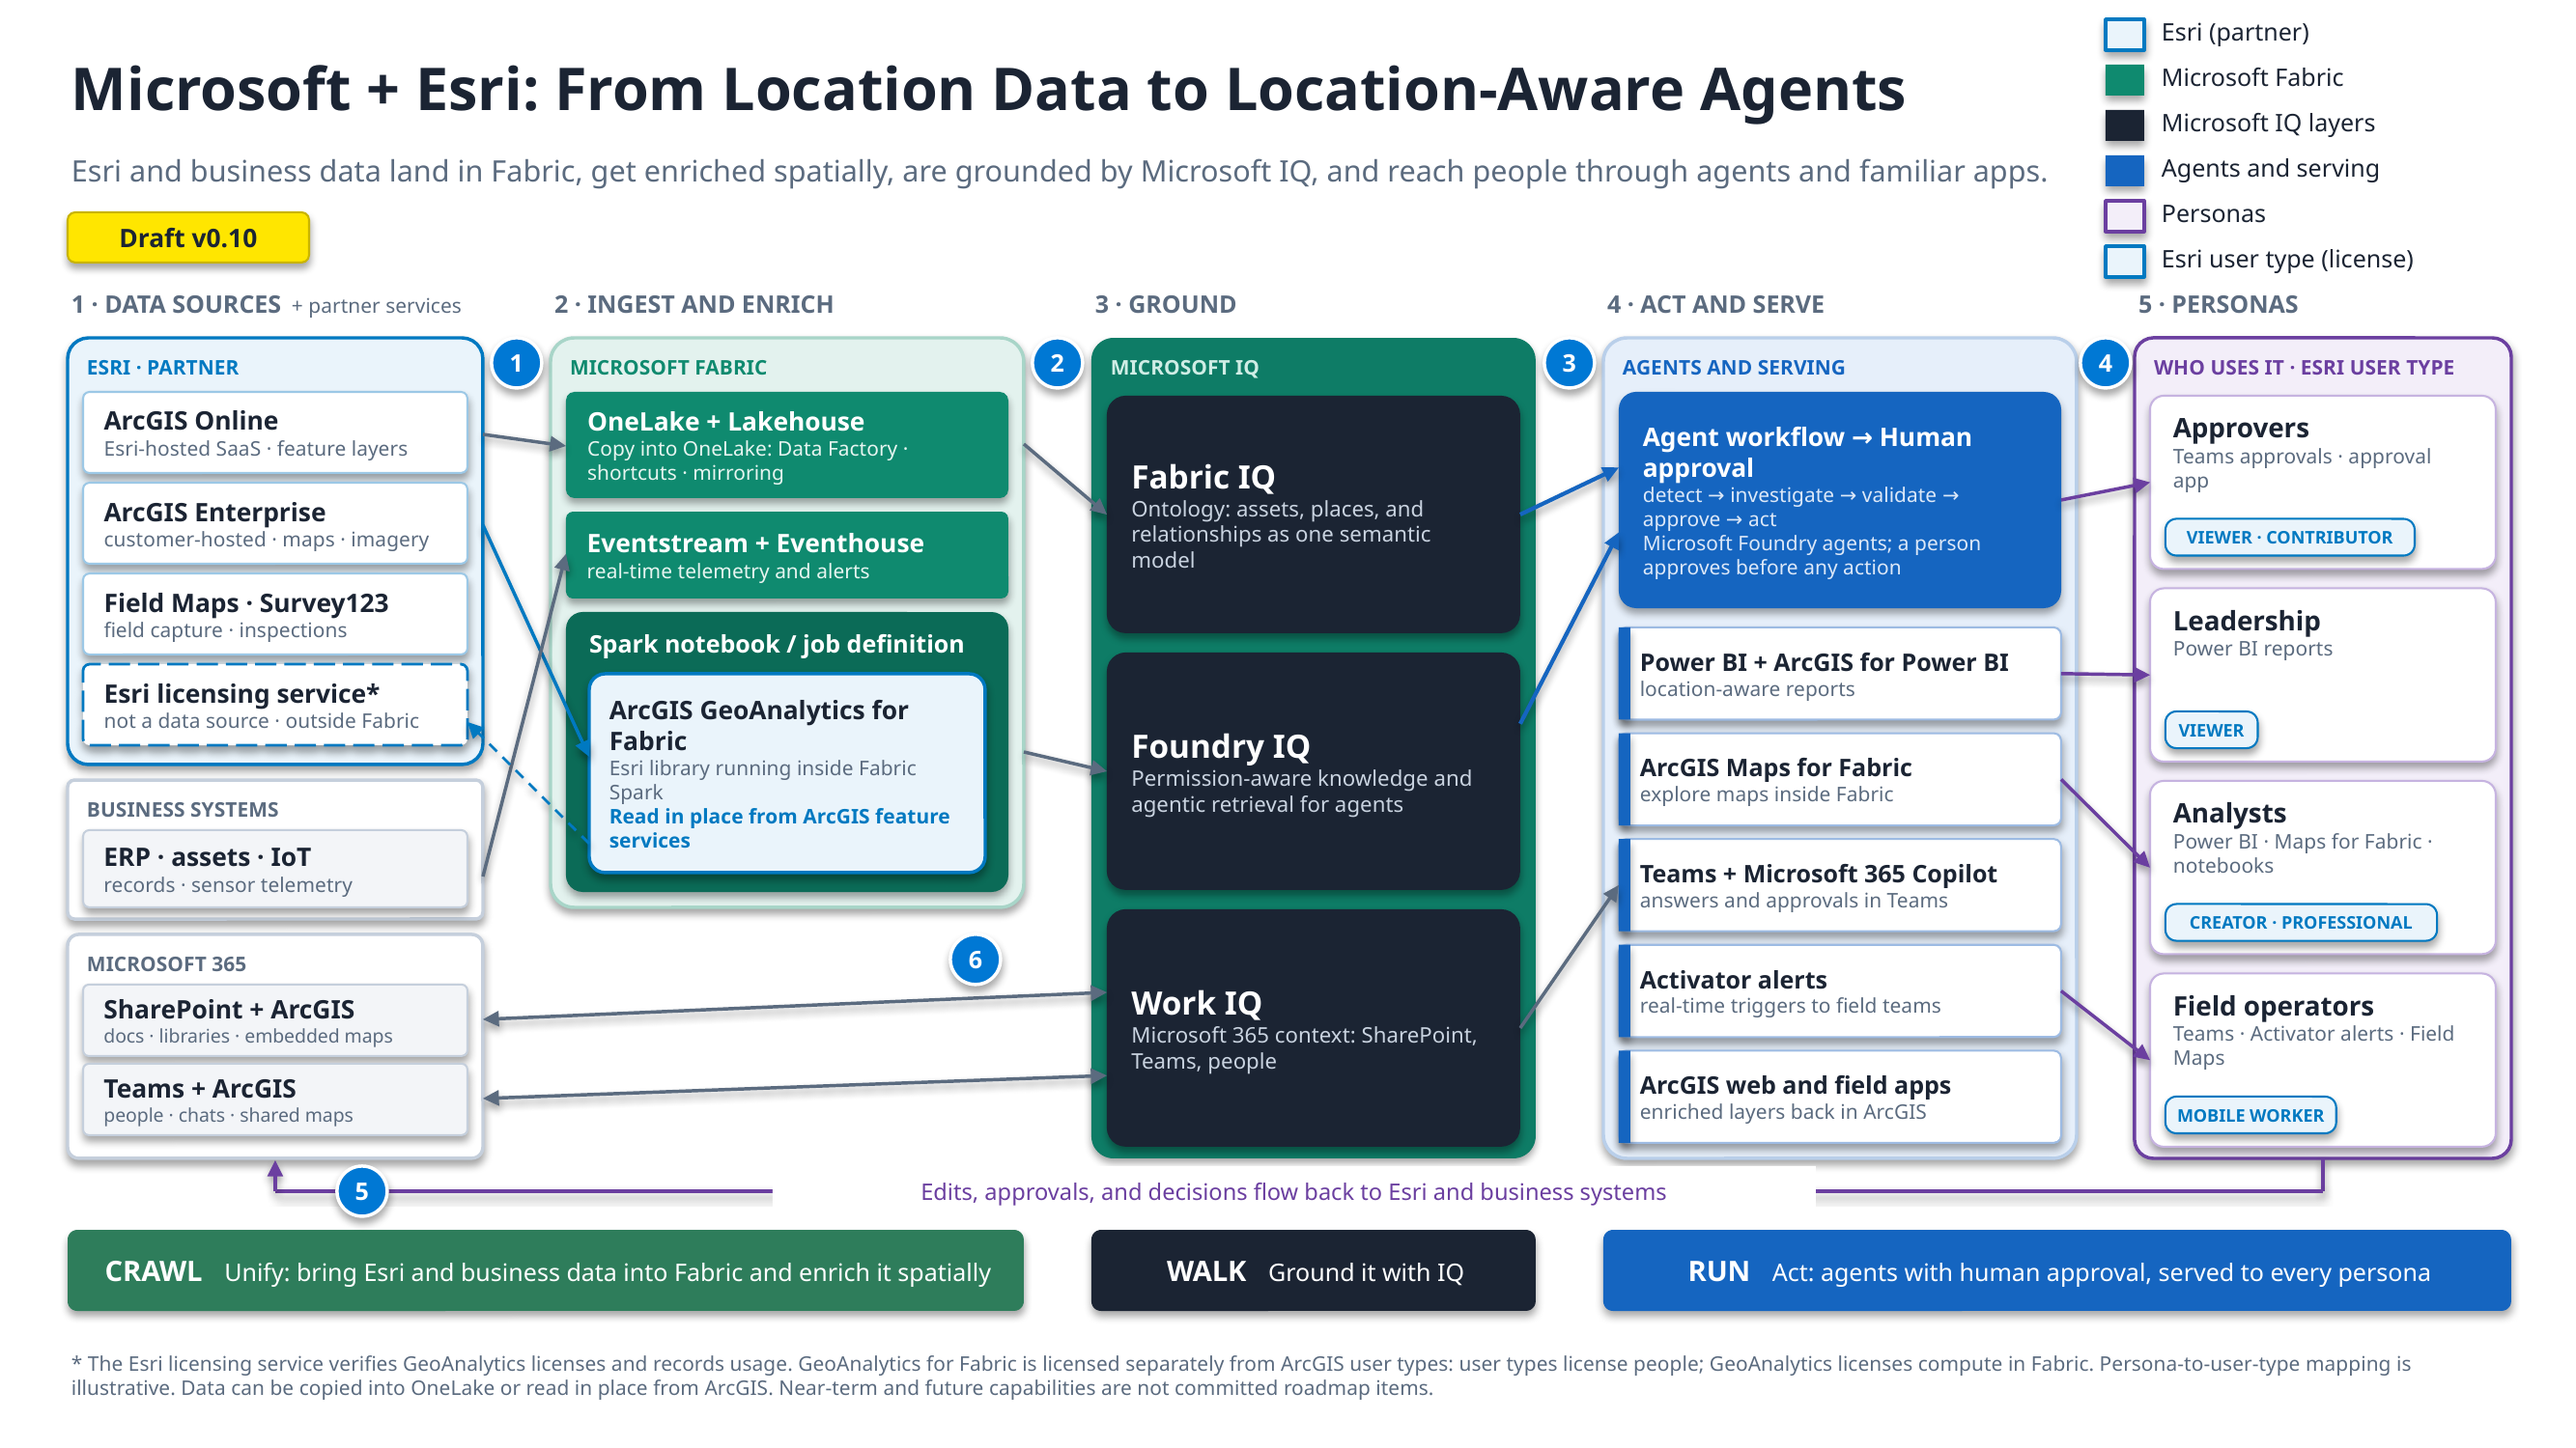
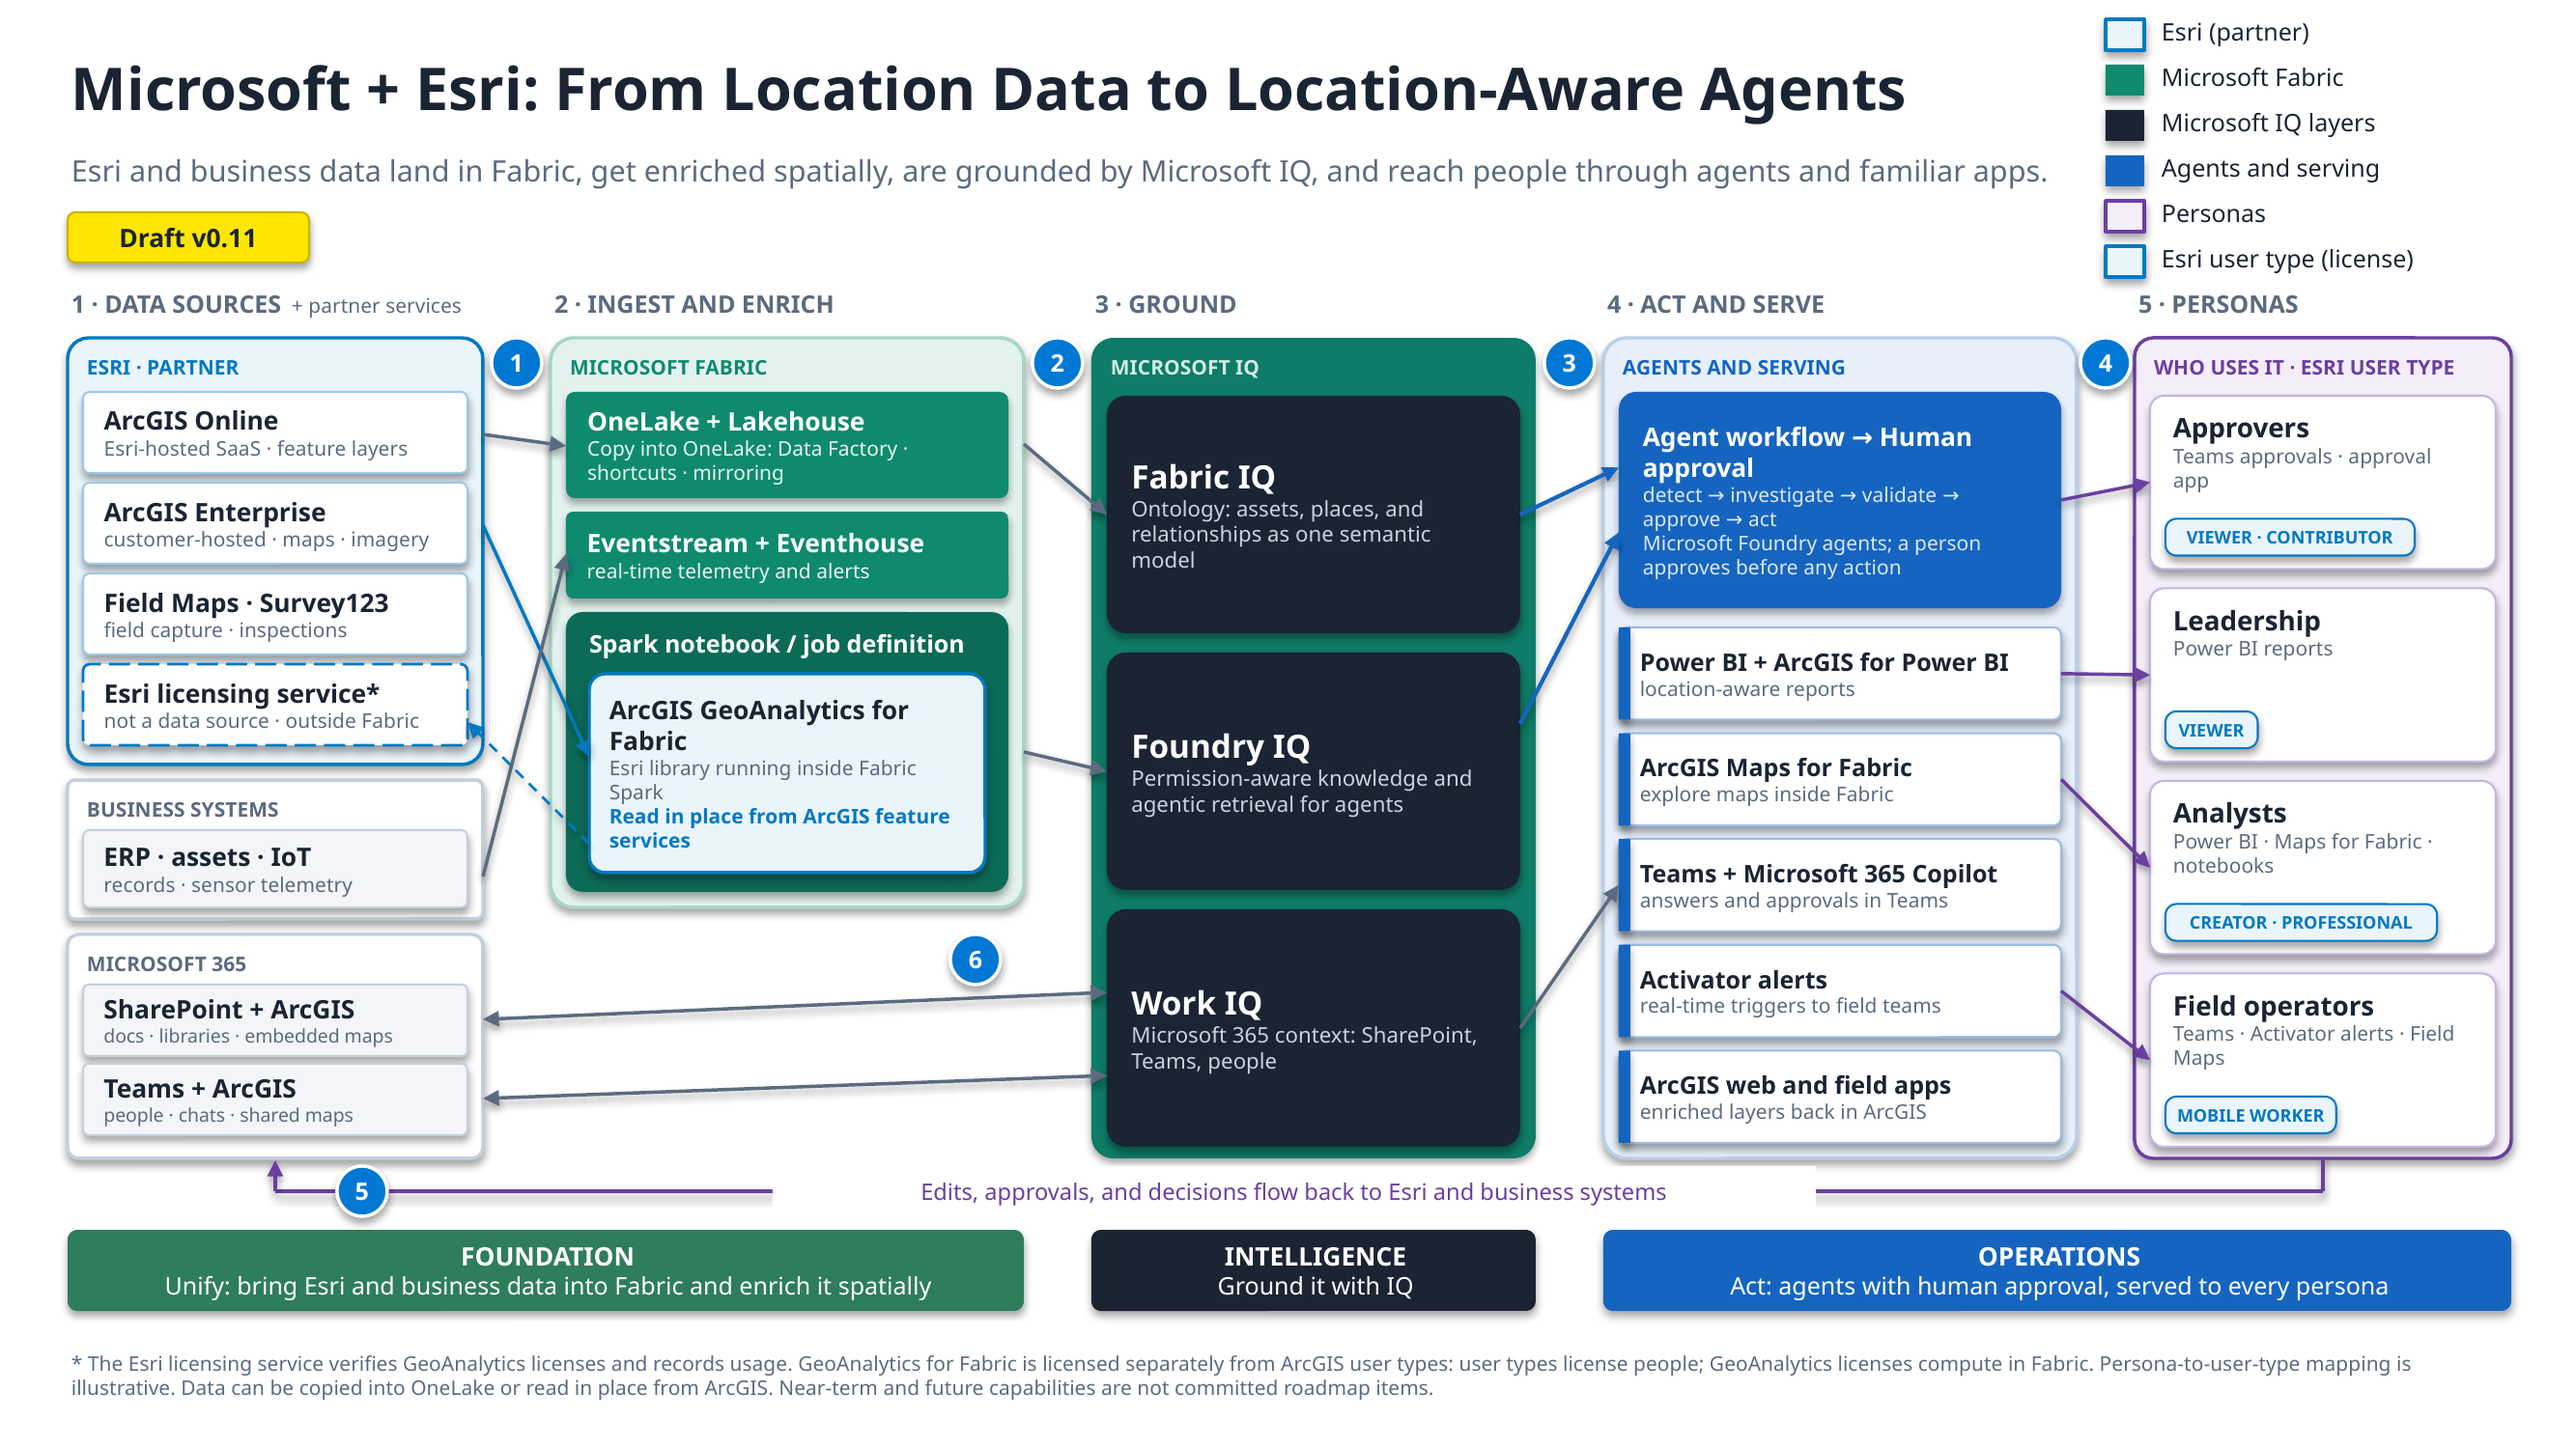
Foundation: detailed view v0.11 replaces Crawl/Walk/Run with Foundation/Intelligence/Operations; update appendix

Changed region(s): [[0.0311, 0.8587, 0.3735, 0.8893], [0.6535, 0.8587, 0.9336, 0.8893], [0.4357, 0.8587, 0.5602, 0.8893]]

diff --git a/01-Microsoft-Esri-Foundation/Appendix-Reading-the-Diagrams.md b/01-Microsoft-Esri-Foundation/Appendix-Reading-the-Diagrams.md
@@ -34,7 +34,7 @@ This appendix explains the visual elements in the two diagrams on the [Microsoft
 | Purple arrows | Outcomes reaching personas, and decisions and edits flowing back. |
 | Dashed Esri licensing service* | The only call GeoAnalytics makes on its own: license authorization and usage reporting over HTTPS to arcgis.com. It is not a data source. Feature-service reads and writes and basemap tiles happen only when the customer's code requests them ([Evidence SEC-007 to SEC-009](../02-GeoAnalytics-for-Fabric/records/Evidence.md)). |
 | Esri user type chips | Each persona is matched to the Esri user type it typically needs (illustrative). User types license people; GeoAnalytics is licensed separately, by compute. |
-| Crawl, Walk, Run band | The adoption path: **Crawl** (unify the data), **Walk** (ground it with IQ), **Run** (act with agents and human approval). |
+| Foundation, Intelligence, Operations band | The adoption path, in order: **Foundation** (unify Esri and business data in Fabric and enrich it spatially), **Intelligence** (ground it with Microsoft IQ), **Operations** (act through agents with human approval, served to every persona). Each builds on the one before. |
 
 **What happens in each column**
 

diff --git a/01-Microsoft-Esri-Foundation/README.md b/01-Microsoft-Esri-Foundation/README.md
@@ -1,6 +1,6 @@
 # Microsoft + Esri Foundation
 
-> **Status:** In progress. The five-step diagram (v0.5) and the detailed view (v0.10) are drafts; the integration landscape is current.
+> **Status:** In progress. The five-step diagram (v0.5) and the detailed view (v0.11) are drafts; the integration landscape is current.
 
 ## Purpose
 
